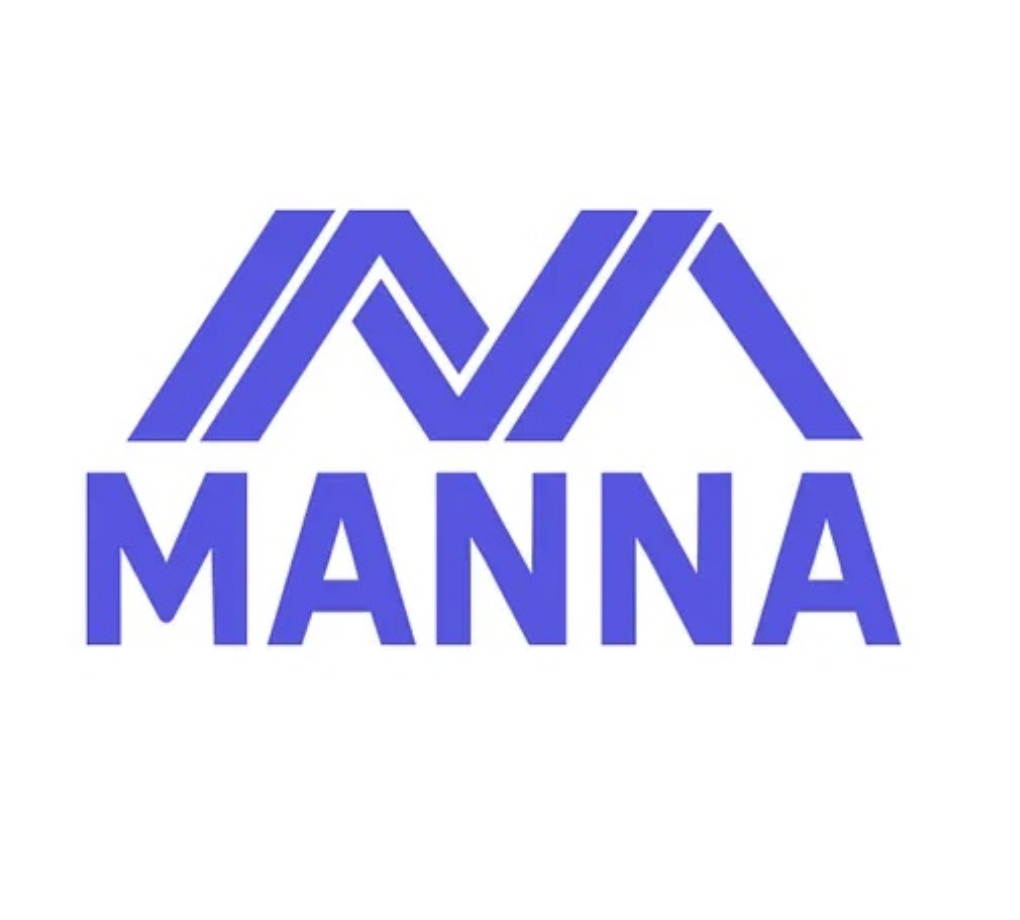
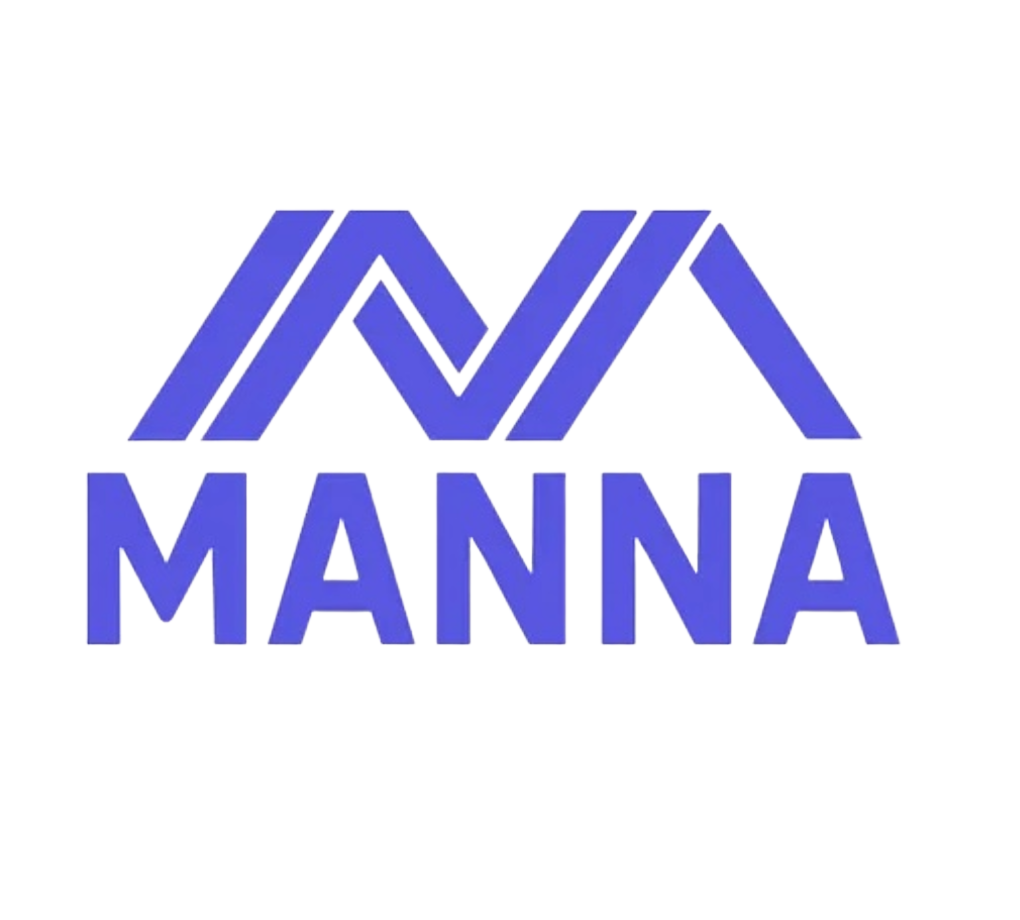
Improve Manna wallet display size and transparency
Update Manna wallet asset and adjust its display size and transparency in the desktop view.

Replit-Commit-Author: Agent
Replit-Commit-Session-Id: 3cb920bd-4b06-407a-9aad-732250c988a8
Replit-Commit-Checkpoint-Type: full_checkpoint
Replit-Commit-Event-Id: 9a631394-7a21-4bd2-a1b2-77a244378c8a
Replit-Commit-Screenshot-Url: https://storage.googleapis.com/screenshot-production-us-central1/b66add52-e0c4-45d3-95b0-812e4328f168/3cb920bd-4b06-407a-9aad-732250c988a8/1Q7TXPe
Replit-Helium-Checkpoint-Created: true

diff --git a/client/src/pages/Desktop.tsx b/client/src/pages/Desktop.tsx
@@ -78,7 +78,7 @@ export const Desktop = (): JSX.Element => {
     { name: "CASHU", logo: "/figmaAssets/image-13.png", url: "https://wallet.cashu.me/welcome" },
     { name: "AGICASH", logo: "/figmaAssets/oabxam9h-400x400-2.png", url: "https://agi.cash/" },
     { name: "STASH PAY", logo: "/figmaAssets/image-16.png", url: "https://stashpay.me/" },
-    { name: "MANNA WALLET", logo: "/figmaAssets/manna-wallet.png", url: "https://mannabitcoin.com/" },
+    { name: "MANNA WALLET", logo: "/figmaAssets/manna-wallet.png", url: "https://mannabitcoin.com/", logoClass: "max-w-full max-h-20 object-contain" },
   ];
 
   return (
@@ -306,7 +306,7 @@ export const Desktop = (): JSX.Element => {
                 <img
                   src={wallet.logo}
                   alt={wallet.name}
-                  className="max-w-full max-h-12 object-contain"
+                  className={(wallet as { logoClass?: string }).logoClass ?? "max-w-full max-h-12 object-contain"}
                 />
               </div>
               <div className="flex-1 flex items-center pl-10 pr-6 py-4">
